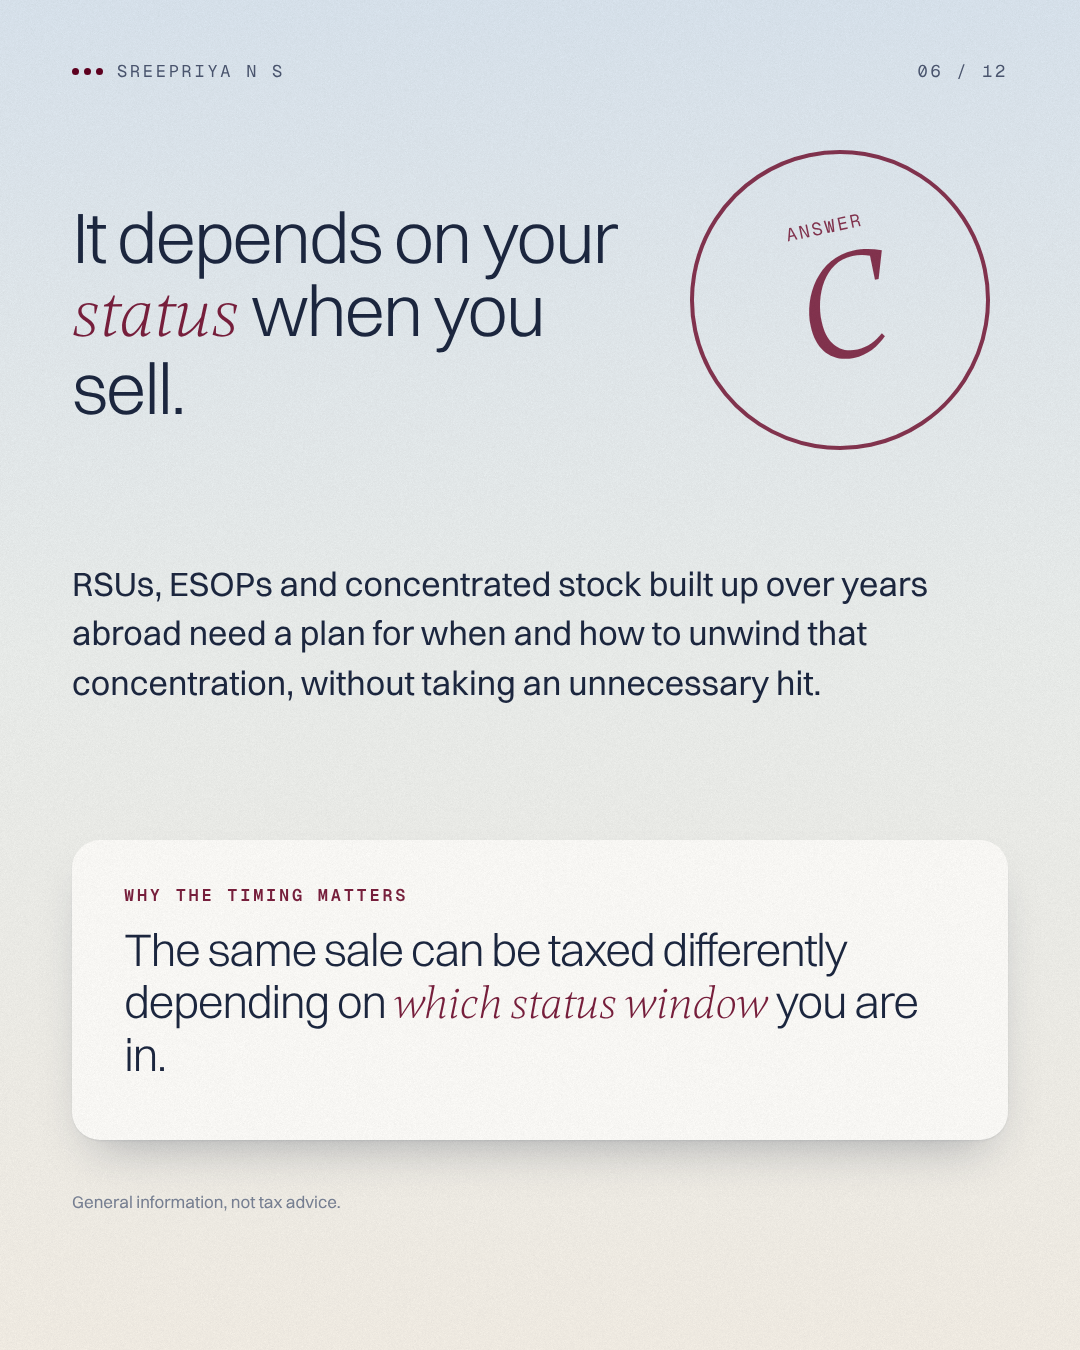
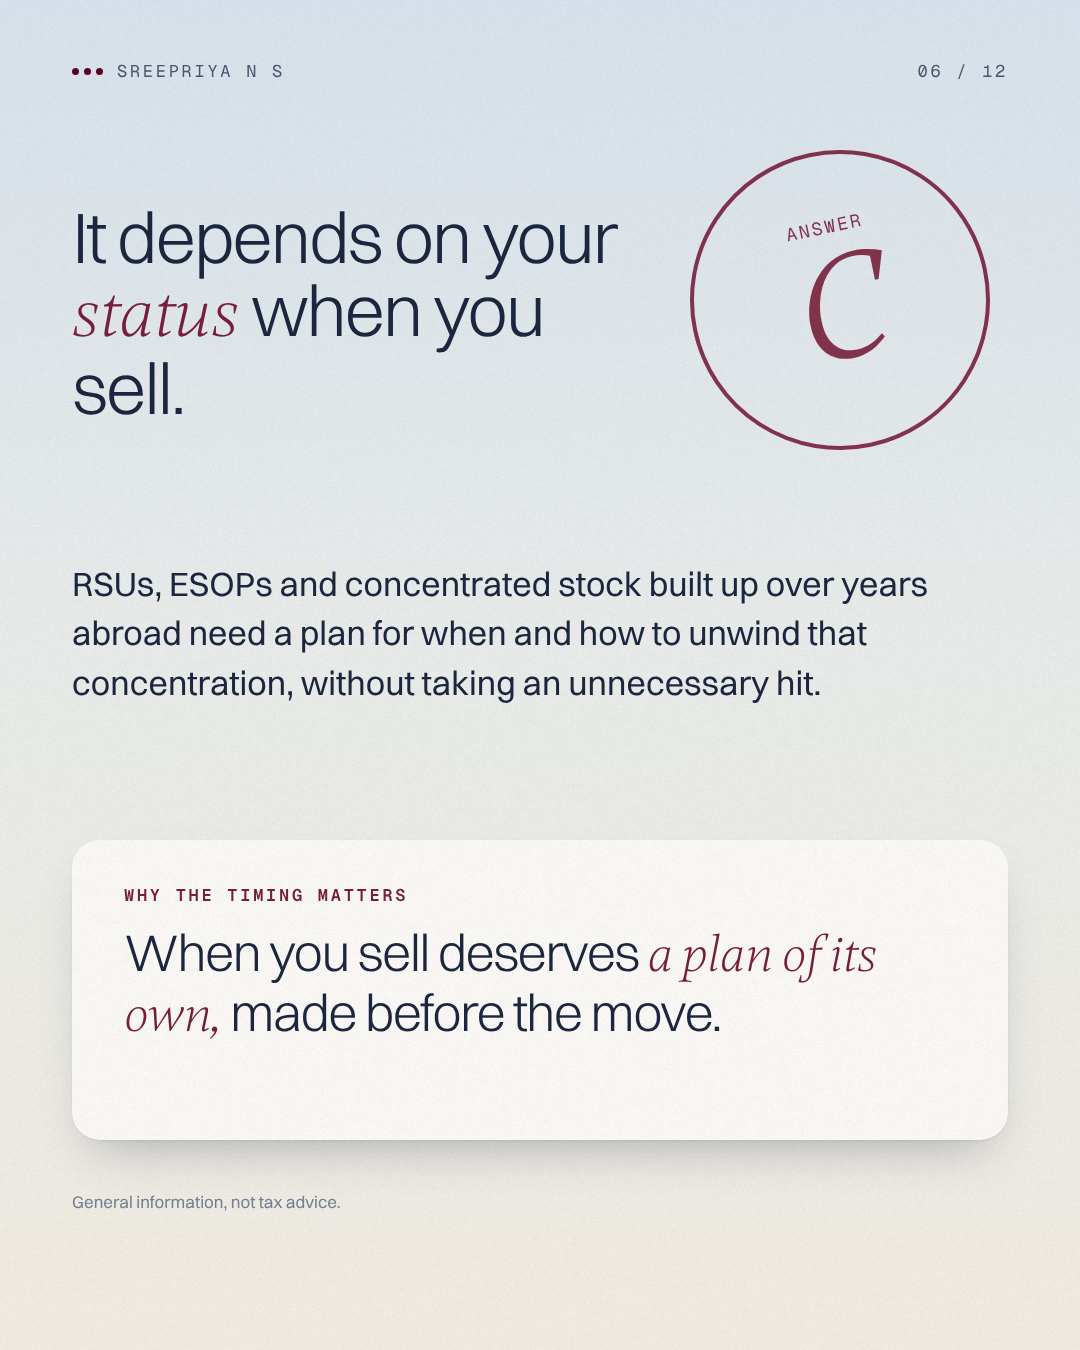
Remove content needing tax sign-off from 'Before the flight'
Slides 6 to 9 and 11 now use only Sreepriya's published wording or the
Income Tax Department's own FAQ: status definitions, the two-to-three-year
estimate and the US-citizen note are gone; quiz 2 becomes a true-or-false
on whether the 2025 Act changed the RNOR rules.

Claude-Session: https://claude.ai/code/session_01Px7com35d6RnpgwFShfDFR

Changed region(s): [[0.1222, 0.6844, 0.8556, 0.8089]]

diff --git a/sreepriya/2026-11-before-the-flight/source/strip.html b/sreepriya/2026-11-before-the-flight/source/strip.html
@@ -146,7 +146,7 @@ html,body{background:#000}
   <div class="a body" style="left:72px;right:90px;top:560px;font-size:34px;color:var(--ink)">RSUs, ESOPs and concentrated stock built up over years abroad need a plan for when and how to unwind that concentration, without taking an unnecessary hit.</div>
   <div class="pass" style="left:72px;top:840px;width:936px;height:300px;padding:44px 52px">
     <div class="mono" style="color:var(--burg);font-weight:600">Why the timing matters</div>
-    <div class="h" style="font-size:46px;line-height:1.12;margin-top:18px">The same sale can be taxed differently depending on <span class="it">which status window</span> you are in.</div>
+    <div class="h" style="font-size:52px;line-height:1.1;margin-top:18px">When you sell deserves <span class="it">a plan of its own,</span> made before the move.</div>
   </div>
   <div class="a fine" style="left:72px;top:1190px">General information, not tax advice.</div>
 </div>
@@ -154,29 +154,31 @@ html,body{background:#000}
 <!-- ================= 07 THREE STATUSES ================= -->
 <div class="a" style="left:6480px;top:0;width:1080px;height:1350px;z-index:5">
   <div class="top"><span class="who"><span class="dots"><i></i><i></i><i></i></span>Sreepriya N S</span><span>07 / 12</span></div>
-  <div class="a mono" style="left:72px;top:160px;color:var(--burg);font-weight:600">Three status windows</div>
-  <div class="a h" style="left:72px;right:72px;top:200px;font-size:72px;line-height:1.02">Each one changes <span class="it">what gets taxed, and where.</span></div>
-  <div class="a" style="left:72px;right:72px;top:470px">
-    <div class="st pass"><div class="code">NRI</div><div><div class="t">Non-resident</div><div class="d">Broadly, only income earned or received in India is taxed in India.</div></div></div>
-    <div class="st pass hi"><div class="code">RNOR</div><div><div class="t">Resident but not ordinarily resident</div><div class="d">The transition window. Income earned and received outside India is generally not taxed in India, with some exceptions.</div></div></div>
-    <div class="st pass"><div class="code">ROR</div><div><div class="t">Resident</div><div class="d">Your worldwide income is taxed in India.</div></div></div>
+  <div class="a mono" style="left:72px;top:160px;color:var(--burg);font-weight:600">The tax window</div>
+  <div class="a h" style="left:72px;right:72px;top:200px;font-size:76px;line-height:1.02">Coming home moves you through <span class="it">three stages.</span></div>
+  <div class="a" style="left:72px;right:72px;top:500px;display:grid;grid-template-columns:1fr auto 1fr auto 1fr;align-items:center;gap:14px">
+    <div class="pass stg"><div class="code">NRI</div><div class="t">Non-resident</div></div>
+    <svg width="40" height="24" viewBox="0 0 40 24"><path d="M2 12h32M26 4l9 8-9 8" fill="none" stroke="#7A1F3D" stroke-width="3"/></svg>
+    <div class="pass stg hi"><div class="code">RNOR</div><div class="t">Resident but not ordinarily resident</div></div>
+    <svg width="40" height="24" viewBox="0 0 40 24"><path d="M2 12h32M26 4l9 8-9 8" fill="none" stroke="#7A1F3D" stroke-width="3"/></svg>
+    <div class="pass stg"><div class="code">ROR</div><div class="t">Resident</div></div>
   </div>
-  <div class="a fine" style="left:72px;right:72px;top:1250px">General information under India's Income-tax Act, 2025, not tax advice. Your adviser should confirm your status each year.</div>
-  <style>.st{position:relative;display:grid;grid-template-columns:200px 1fr;gap:28px;align-items:center;padding:46px 44px;margin-bottom:30px}
-  .st .code{font-family:"Geist Mono";font-size:40px;letter-spacing:.06em;color:var(--ink);font-weight:500}
-  .st .t{font-size:33px;font-weight:600;color:var(--ink)} .st .d{font-size:29px;line-height:1.38;color:var(--ink2);margin-top:8px}
-  .st.hi{outline:3px solid var(--burg)} .st.hi .code{color:var(--burg)}</style>
+  <div class="a h" style="left:72px;right:72px;top:860px;font-size:52px;line-height:1.12">Each stage changes what gets taxed, where, and <span class="it">how long there is to plan around it.</span></div>
+  <div class="a fine" style="left:72px;right:72px;top:1250px">General information, not tax advice.</div>
+  <style>.stg{position:relative;padding:44px 22px;text-align:center;min-height:250px;display:flex;flex-direction:column;justify-content:center}
+  .stg .code{font-family:"Geist Mono";font-size:40px;letter-spacing:.06em;color:var(--ink);font-weight:500}
+  .stg .t{font-size:24px;line-height:1.3;color:var(--ink2);margin-top:12px}
+  .stg.hi{outline:3px solid var(--burg)} .stg.hi .code{color:var(--burg)}</style>
 </div>
 
 <!-- ================= 08 QUIZ 2 ================= -->
 <div class="a" style="left:7560px;top:0;width:1080px;height:1350px;z-index:5">
   <div class="top"><span class="who"><span class="dots"><i></i><i></i><i></i></span>Sreepriya N S</span><span>08 / 12</span></div>
-  <div class="a mono" style="left:72px;top:160px;color:var(--burg);font-weight:600">Quick question · 02</div>
-  <div class="a h" style="left:72px;right:72px;top:200px;font-size:76px;line-height:1.02">For a long-time NRI, how long can the <span class="it">RNOR window</span> last?</div>
-  <div class="a" style="left:72px;right:72px;top:600px">
-    <div class="opt pass"><span class="L">A</span><span>One tax year</span></div>
-    <div class="opt pass"><span class="L">B</span><span>Up to two or three tax years</span></div>
-    <div class="opt pass"><span class="L">C</span><span>About six months</span></div>
+  <div class="a mono" style="left:72px;top:160px;color:var(--burg);font-weight:600">Quick question · 02 · True or false?</div>
+  <div class="a h" style="left:72px;right:72px;top:200px;font-size:76px;line-height:1.02">India's new Income-tax Act, 2025 <span class="it">changed the RNOR rules.</span></div>
+  <div class="a" style="left:72px;right:72px;top:620px">
+    <div class="opt pass"><span class="L">A</span><span>True</span></div>
+    <div class="opt pass"><span class="L">B</span><span>False</span></div>
   </div>
   <div class="a hint" style="left:72px;top:1220px">Guess, then swipe →</div>
 </div>
@@ -185,17 +187,14 @@ html,body{background:#000}
 <div class="a" style="left:8640px;top:0;width:1080px;height:1350px;z-index:5">
   <div class="top"><span class="who"><span class="dots"><i></i><i></i><i></i></span>Sreepriya N S</span><span>09 / 12</span></div>
   <div class="stamp" style="left:690px;top:150px;width:300px;height:300px;transform:rotate(10deg)"><div><div style="font-size:18px">Answer</div><div style="font-family:Gambetta;font-style:italic;font-size:150px;line-height:1;letter-spacing:0;text-transform:none">B</div></div></div>
-  <div class="a h" style="left:72px;right:420px;top:200px;font-size:72px;line-height:1.02">Often up to <span class="it">two or three tax years.</span></div>
-  <div class="a body" style="left:72px;right:90px;top:520px;font-size:32px;color:var(--ink)">It depends on your history and travel dates. You remain RNOR if either is true:</div>
-  <div class="a" style="left:72px;right:72px;top:660px;display:grid;grid-template-columns:1fr 1fr;gap:24px">
-    <div class="pass" style="position:relative;padding:36px 36px"><div class="h" style="font-size:66px;font-weight:400">9 <span style="font-size:34px;color:var(--ink2)">of 10</span></div><div class="body" style="font-size:25px;margin-top:8px">previous tax years as a non-resident</div></div>
-    <div class="pass" style="position:relative;padding:36px 36px"><div class="h" style="font-size:66px;font-weight:400">≤ 729 <span style="font-size:34px;color:var(--ink2)">days</span></div><div class="body" style="font-size:25px;margin-top:8px">in India over the previous seven tax years</div></div>
+  <div class="a h" style="left:72px;right:420px;top:200px;font-size:72px;line-height:1.02">False. The criteria are <span class="it">unchanged.</span></div>
+  <div class="a body" style="left:72px;right:90px;top:520px;font-size:32px;color:var(--ink)">In the Income Tax Department's words, an individual remains not ordinarily resident in a tax year if either is true:</div>
+  <div class="a" style="left:72px;right:72px;top:680px;display:grid;grid-template-columns:1fr 1fr;gap:24px">
+    <div class="pass" style="position:relative;padding:36px 36px"><div class="h" style="font-size:66px;font-weight:400">9 <span style="font-size:34px;color:var(--ink2)">of 10</span></div><div class="body" style="font-size:25px;margin-top:8px">preceding years as a non-resident</div></div>
+    <div class="pass" style="position:relative;padding:36px 36px"><div class="h" style="font-size:66px;font-weight:400">≤ 729 <span style="font-size:34px;color:var(--ink2)">days</span></div><div class="body" style="font-size:25px;margin-top:8px">in India in the preceding seven years</div></div>
   </div>
-  <div class="a" style="left:72px;right:72px;top:960px;padding:26px 30px;border-left:4px solid var(--burg);background:rgba(255,254,251,.7)">
-    <div class="mono" style="color:var(--burg);font-weight:600">Also a US citizen?</div>
-    <div class="body" style="font-size:26px;margin-top:8px;color:var(--ink)">The US taxes its citizens' worldwide income wherever they live. Plan both sides.</div>
-  </div>
-  <div class="a fine" style="left:72px;right:72px;top:1250px">General information under India's Income-tax Act, 2025. Not tax advice.</div>
+  <div class="a body" style="left:72px;right:72px;top:1000px;font-size:30px;color:var(--ink)">Knowing where you sit on these tests is where the planning starts.</div>
+  <div class="a fine" style="left:72px;right:72px;top:1220px">Source: Income Tax Department, Non Resident FAQ, Income-tax Act, 2025 (section 6(13)). General information, not tax advice.</div>
 </div>
 
 <!-- ================= 10 A OR B ================= -->
@@ -236,7 +235,6 @@ html,body{background:#000}
   <div class="pass" style="left:290px;top:820px;width:500px;height:250px;display:grid;place-items:center;text-align:center">
     <div><img src="assets/logo.png" style="height:96px;display:block;margin:0 auto"><div class="h" style="font-size:34px;margin-top:14px">brought together</div></div>
   </div>
-  <div class="a body" style="left:72px;right:72px;top:1130px;font-size:28px;text-align:center">So the decisions are made in the right order, by people who can see all of them.</div>
   <style>.chip{background:var(--card);border:2px solid rgba(28,39,64,.16);border-radius:60px;padding:20px 30px;font-size:27px;color:var(--ink);box-shadow:0 10px 24px -16px rgba(28,39,64,.4)}</style>
 </div>
 

diff --git a/sreepriya/2026-11-before-the-flight/CAPTION.md b/sreepriya/2026-11-before-the-flight/CAPTION.md
@@ -7,9 +7,12 @@ Adapted from Sreepriya's LinkedIn post on the Business Insider story and plannin
 ## Interaction design
 - Slide 4: tick-box checklist ("Screenshot and tick yours"). Built for saves and screenshots.
 - Slides 5 and 6: guess-then-reveal on when to unwind stock (answer C).
-- Slides 8 and 9: guess-then-reveal on how long RNOR can last (answer B). The answers differ on purpose so the second quiz is not predictable.
+- Slides 8 and 9: true-or-false on whether the Income-tax Act, 2025 changed the RNOR rules (answer B, false).
 - Slide 10: "Order A or Order B?" prompt for comments.
 - Slide 12: Save / Send / Read (link in bio).
+
+## Content rule
+Every tax statement either repeats Sreepriya's published LinkedIn post or quotes the Income Tax Department's own FAQ. No simplified definitions, estimates or US-tax notes. Nothing on the slides needs separate tax sign-off.
 
 ## Caption
 See `caption-ready-to-paste.txt` (about 1,500 characters). The first line asks the question the carousel answers, with the searchable terms (moving back to India, NRI, RNOR) inside the preview.
@@ -23,21 +26,18 @@ Order A or B? There is no wrong answer here. Knowing which one you are on is the
 3. A timeline from Decision to Landing, with the gap between them marked "this part".
 4. A checklist to tick: RSUs or ESOPs abroad, concentrated stock, retirement accounts abroad, property or accounts abroad, school timing, foreign citizenship.
 5. Quiz: when should you start unwinding stock built up abroad? A after you land, B before you move, C it depends on your tax status when you sell.
-6. Answer C: it depends on your residential status when you sell.
-7. Three status windows: NRI, RNOR and resident, and what each generally taxes in India.
-8. Quiz: how long can the RNOR window last for a long-time NRI?
-9. Answer B: often up to two or three tax years. RNOR tests: non-resident in 9 of the previous 10 tax years, or 729 days or less in India over the previous 7. Note for US citizens.
+6. Answer C: it depends on your status when you sell. When you sell deserves a plan of its own, made before the move.
+7. Three stages: NRI, RNOR and resident. Each stage changes what gets taxed, where, and how long there is to plan around it.
+8. True or false: India's new Income-tax Act, 2025 changed the RNOR rules.
+9. Answer B, false. In the Income Tax Department's words, you remain not ordinarily resident if you were non-resident in 9 of the 10 preceding years, or in India 729 days or less in the preceding seven.
 10. Two orders of planning: A books the flight first; B maps status windows and plans investments before booking. Comment A or B.
 11. Cross-border wealth planning, investment restructuring, tax considerations and estate planning brought together in one conversation with Entrust.
 12. If coming home is in your next few years, think it through long before the flight is booked. Save, send, read Ghar Wapasi 2.0.
 
 ## Fact notes
-- RNOR tests: unchanged in the Income-tax Act, 2025 (section 6(13), similar to section 6(6) of the 1961 Act), applying to tax years from 1 April 2026. Verified directly against the Income Tax Department's Non Resident FAQ on incometax.gov.in (FAQ 5), which also confirms the 182-day and 60/365-day residency tests are unchanged, and that the look-back years can include years under the 1961 Act.
-- "Up to two or three tax years": for a long-time NRI, the 9-of-10 test usually gives two RNOR years after return; a third is possible when arrival timing keeps total days in India over the previous seven years at 729 or fewer. Phrased as "often" and "depends on your history and travel dates". This is my reading of the rules, not stated on the portal; have the tax lead confirm.
-- Status summaries on slide 7 are simplified ("broadly", "generally", "with some exceptions") and carry a not-tax-advice line.
-- US citizens are taxed on worldwide income wherever they live (US citizenship-based taxation).
-- Business Insider essay: by Balaji Gururajan, as told to Faye Bradley (November 2026). 18 years in the US (Microsoft, LinkedIn, Meta), US citizen, now back in Bengaluru. The slides do not name him, matching Sreepriya's post.
+- RNOR tests (slide 9) and "no modification in the NOR criteria" (slide 8 answer): quoted from the Income Tax Department's Non Resident FAQ on incometax.gov.in (FAQ 5), read directly. Section 6(13) of the Income-tax Act, 2025, similar to section 6(6) of the 1961 Act.
+- "Each stage changes what gets taxed, where, and how long there is to plan around it" (slide 7) is Sreepriya's own published line.
+- Business Insider essay: by Balaji Gururajan, as told to Faye Bradley (November 2026). The slides do not name him, matching Sreepriya's post.
 
-## Review flags (sign-off needed)
-- New content beyond the LinkedIn post: the slide 4 checklist, the quiz framing, the status definitions (slide 7), the RNOR tests, the duration and the US-citizen note (slide 9), and the line on slide 11. Have Entrust's tax lead review slides 6, 7 and 9 before posting.
-- The "Ghar Wapasi 2.0" blog could not be found through search; confirm the link in bio points to it.
+## Before posting
+- Confirm the link in bio points to the "Ghar Wapasi 2.0" blog (it could not be found through search).
